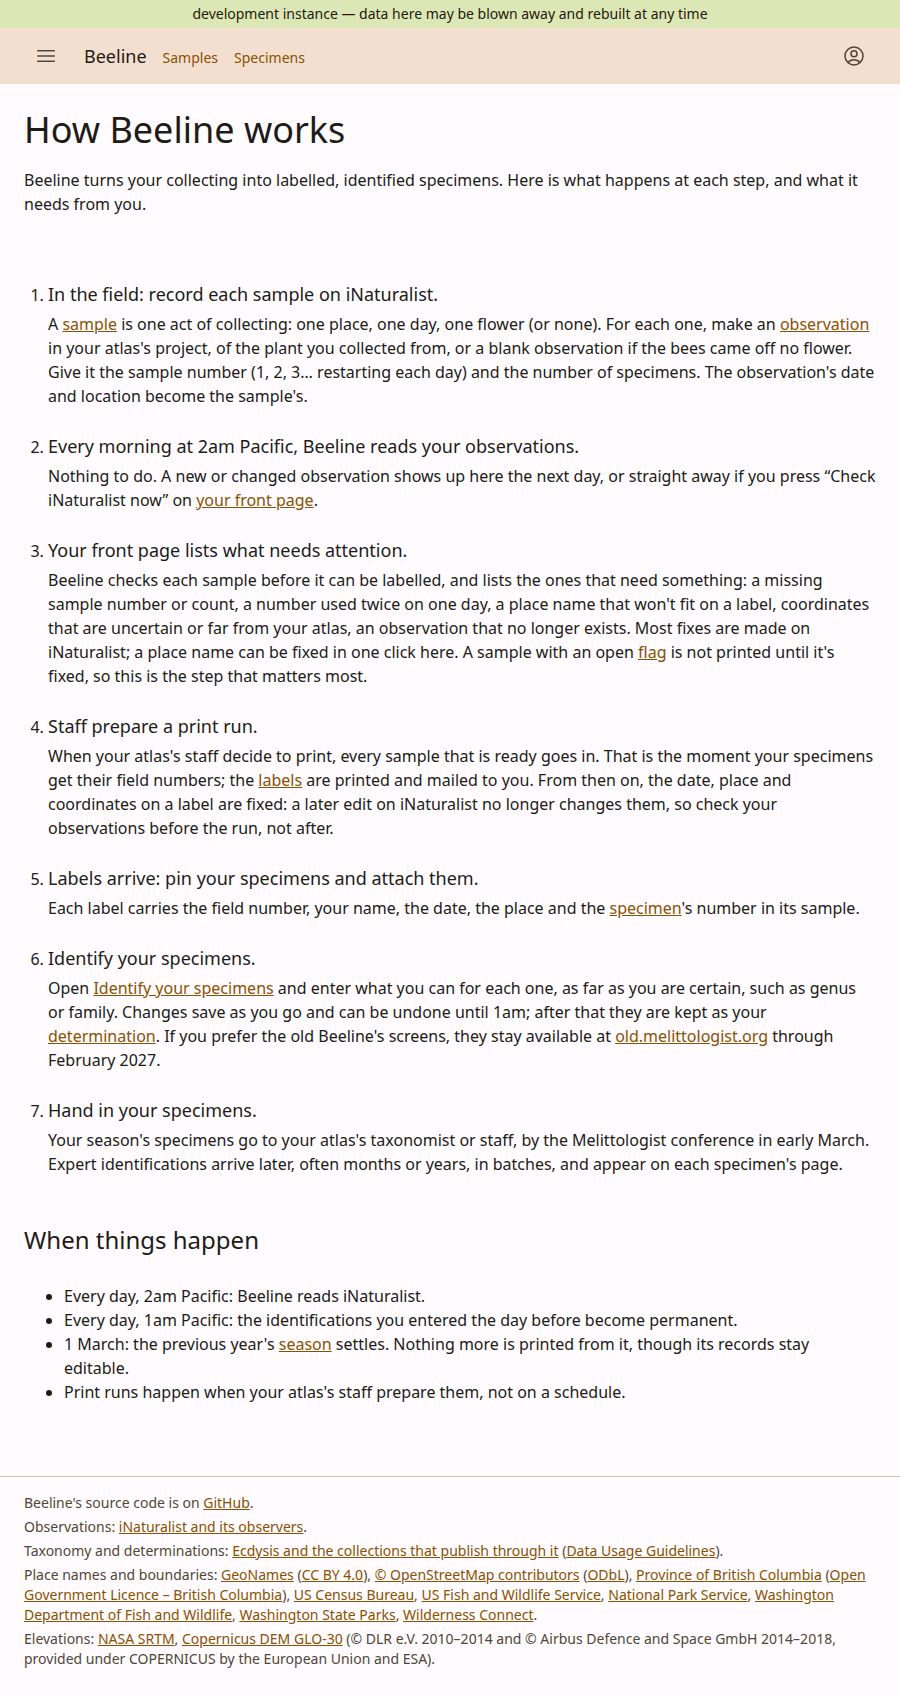
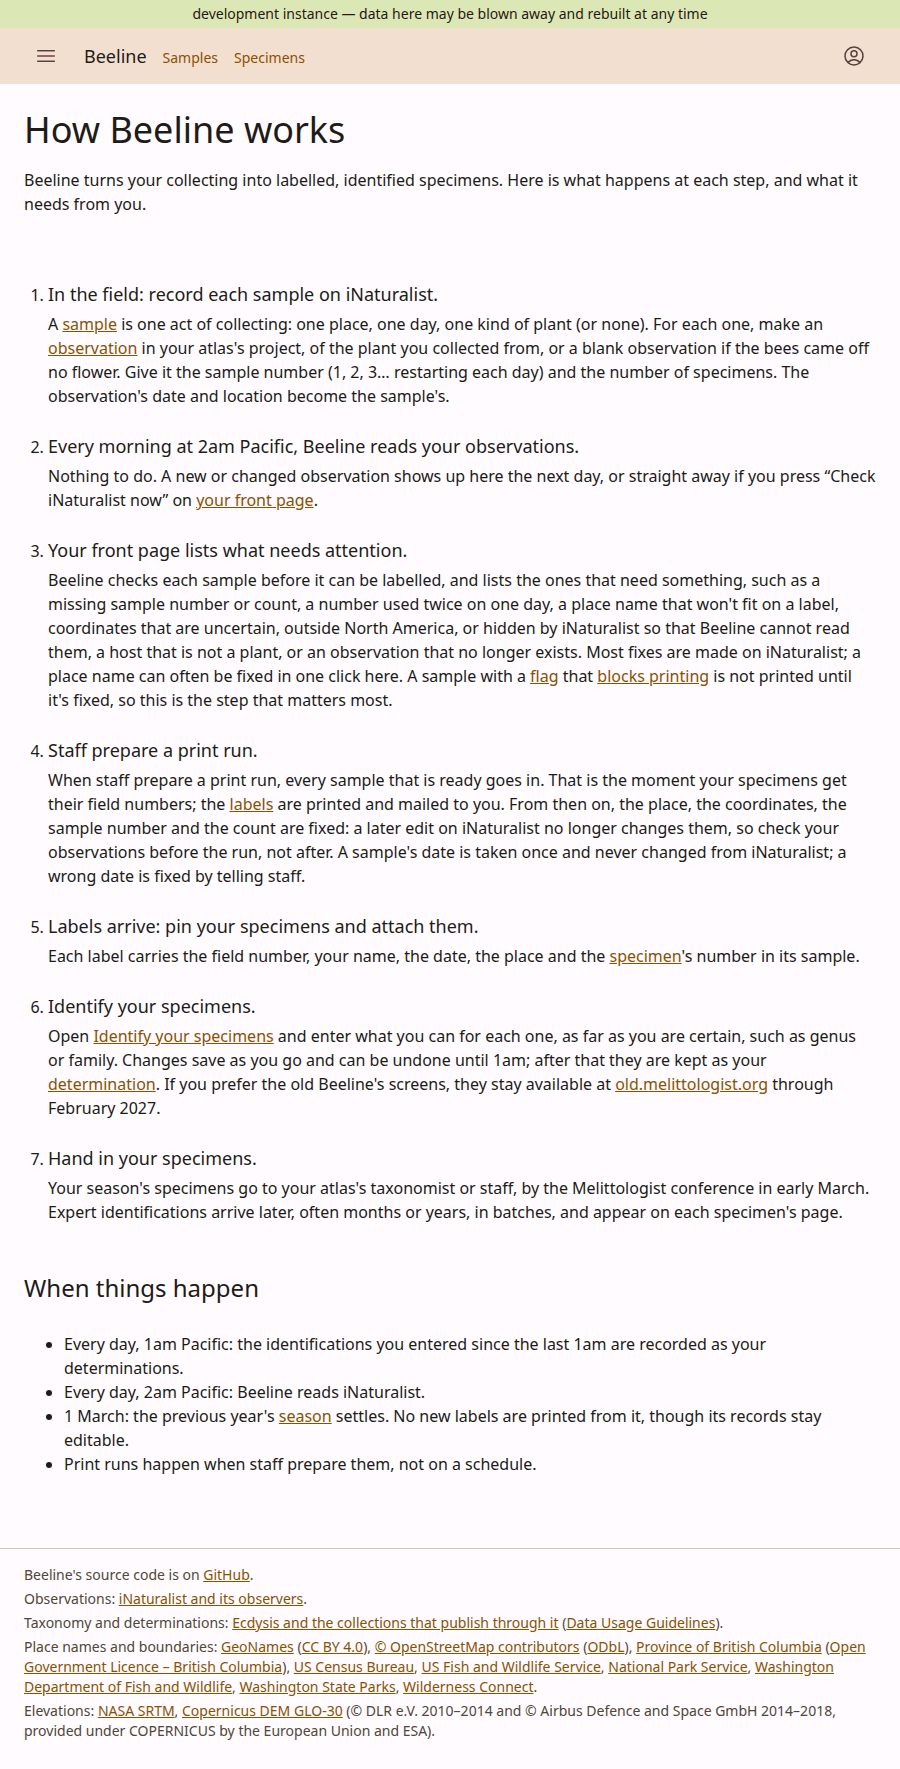
Say only what the system does: the date never follows iNaturalist, staff print, and only a blocking flag holds a label
An internal review of the page found five sentences that claimed more than
the system does. A sample's date is taken once and never changed from
iNaturalist, so it is no longer listed among the things that stop following
at printing; the sample number and count, which do stop, are. Every print run
is the program's, so "your atlas's staff" becomes "staff". Only a flag that
blocks printing holds a label, and the page now links the glossary's entry
for that; the list of flags is given as examples, with the obscured
coordinates and the non-plant host named, and "far from your atlas" replaced
by what the check is, outside North America. The place-name button appears
only when Beeline found a name, so "can often be fixed". The 1am line says
what the identification page says, and comes first. Reprints still print from
a settled season, so "no new labels". The old Beeline's address comes from
the module that owns it, and the test now asserts that, with exact statuses.
The glossary's own comment is back on the glossary.

diff --git a/src/app/messages/en.ts b/src/app/messages/en.ts
@@ -7,6 +7,7 @@
 
 import type { TaxonQualifier } from "../views/components/taxon.js";
 import type { LocalityBasis } from "../../locality-rule.js";
+import { OLD_BEELINE_ORIGIN } from "../old-beeline.js";
 
 /** An outside data source the site footer credits, with the licence or terms it asks credit under, where it names some. */
 export interface CreditedSource {
@@ -2281,15 +2282,6 @@ export const en = {
   } as Record<string, string>,
 
   /**
-   * The glossary (/glossary). Volunteers meet a lot of vocabulary here that
-   * nobody explained to them — some of it ours, some of it nomenclature.
-   * Keys are the anchor slugs, so renaming one breaks a link: a test pins
-   * every `Term` usage against these keys.
-   *
-   * Order is display order. Written to be read by someone who has collected
-   * bees for a season and never used this software.
-   */
-  /**
    * The process, step by step, for a volunteer who has never seen Beeline
    * (beeline-kgwd; Peter, 2026-11-03, cutover day): what happens and when, and
    * what each step needs from them. Every sentence is a fact about how the
@@ -2309,7 +2301,7 @@ export const en = {
         body: [
           "A ",
           { href: "/glossary#sample", label: "sample" },
-          " is one act of collecting: one place, one day, one flower (or none). For each one, make an ",
+          " is one act of collecting: one place, one day, one kind of plant (or none). For each one, make an ",
           { href: "/glossary#observation", label: "observation" },
           " in your atlas's project, of the plant you collected from, or a blank observation if the bees came off no flower. Give it the sample number (1, 2, 3… restarting each day) and the number of specimens. The observation's date and location become the sample's.",
         ],
@@ -2325,17 +2317,19 @@ export const en = {
       {
         heading: "Your front page lists what needs attention.",
         body: [
-          "Beeline checks each sample before it can be labelled, and lists the ones that need something: a missing sample number or count, a number used twice on one day, a place name that won't fit on a label, coordinates that are uncertain or far from your atlas, an observation that no longer exists. Most fixes are made on iNaturalist; a place name can be fixed in one click here. A sample with an open ",
+          "Beeline checks each sample before it can be labelled, and lists the ones that need something, such as a missing sample number or count, a number used twice on one day, a place name that won't fit on a label, coordinates that are uncertain, outside North America, or hidden by iNaturalist so that Beeline cannot read them, a host that is not a plant, or an observation that no longer exists. Most fixes are made on iNaturalist; a place name can often be fixed in one click here. A sample with a ",
           { href: "/glossary#flag", label: "flag" },
+          " that ",
+          { href: "/glossary#blocks-printing", label: "blocks printing" },
           " is not printed until it's fixed, so this is the step that matters most.",
         ],
       },
       {
         heading: "Staff prepare a print run.",
         body: [
-          "When your atlas's staff decide to print, every sample that is ready goes in. That is the moment your specimens get their field numbers; the ",
+          "When staff prepare a print run, every sample that is ready goes in. That is the moment your specimens get their field numbers; the ",
           { href: "/glossary#label", label: "labels" },
-          " are printed and mailed to you. From then on, the date, place and coordinates on a label are fixed: a later edit on iNaturalist no longer changes them, so check your observations before the run, not after.",
+          " are printed and mailed to you. From then on, the place, the coordinates, the sample number and the count are fixed: a later edit on iNaturalist no longer changes them, so check your observations before the run, not after. A sample's date is taken once and never changed from iNaturalist; a wrong date is fixed by telling staff.",
         ],
       },
       {
@@ -2354,7 +2348,7 @@ export const en = {
           " and enter what you can for each one, as far as you are certain, such as genus or family. Changes save as you go and can be undone until 1am; after that they are kept as your ",
           { href: "/glossary#determination", label: "determination" },
           ". If you prefer the old Beeline's screens, they stay available at ",
-          { href: "https://old.melittologist.org", label: "old.melittologist.org" },
+          { href: OLD_BEELINE_ORIGIN, label: "old.melittologist.org" },
           " through February 2027.",
         ],
       },
@@ -2367,17 +2361,26 @@ export const en = {
     ],
     whenHeading: "When things happen",
     when: [
+      ["Every day, 1am Pacific: the identifications you entered since the last 1am are recorded as your determinations."],
       ["Every day, 2am Pacific: Beeline reads iNaturalist."],
-      ["Every day, 1am Pacific: the identifications you entered the day before become permanent."],
       [
         "1 March: the previous year's ",
         { href: "/glossary#season", label: "season" },
-        " settles. Nothing more is printed from it, though its records stay editable.",
+        " settles. No new labels are printed from it, though its records stay editable.",
       ],
-      ["Print runs happen when your atlas's staff prepare them, not on a schedule."],
+      ["Print runs happen when staff prepare them, not on a schedule."],
     ],
   },
 
+  /**
+   * The glossary (/glossary). Volunteers meet a lot of vocabulary here that
+   * nobody explained to them — some of it ours, some of it nomenclature.
+   * Keys are the anchor slugs, so renaming one breaks a link: a test pins
+   * every `Term` usage against these keys.
+   *
+   * Order is display order. Written to be read by someone who has collected
+   * bees for a season and never used this software.
+   */
   glossary: {
     title: "Glossary",
     heading: "Glossary",

diff --git a/test/app.test.ts b/test/app.test.ts
@@ -6,6 +6,7 @@ import { noSession } from "../src/app/session.js";
 import { createMemoryDb, insertCleanSample, scratchPaths } from "./helpers.js";
 import { DESIGN_SECTIONS } from "../src/app/views/design/shell.js";
 import { en } from "../src/app/messages/en.js";
+import { OLD_BEELINE_ORIGIN } from "../src/app/old-beeline.js";
 
 const unusedInat: InatClient = {
   authorizeUrl: () => "https://inat.example/authorize",
@@ -322,9 +323,11 @@ describe("app scaffold", () => {
         expect(Object.keys(en.glossary.entries), href).toContain(href.slice("/glossary#".length));
       } else if (href.startsWith("/")) {
         const linked = await app.request(href);
-        expect(linked.status, href).toBeLessThan(400);
+        expect(linked.status, href).toBe(200);
       }
     }
+    // The one address off the site comes from the module that owns it.
+    expect(hrefs.filter((h) => !h.startsWith("/"))).toEqual([OLD_BEELINE_ORIGIN]);
     const front = await (await app.request("/")).text();
     expect(front).toContain(`href="/how-it-works"`);
     expect(front).toContain(en.qc.howItWorksLink);

diff --git a/docs/architecture/the-front-page.md b/docs/architecture/the-front-page.md
@@ -8,4 +8,4 @@ A staff hold (beeline-plu) is one more flag on the page, `staff_hold`, with no c
 
 A locality flag — `locality_format`, or a required field missing that is the locality — carries on its line the locality Beeline names from the sample's coordinates, with a button that makes it the sample's locality in one click, rather than the volunteer guessing at a name on iNaturalist ([Localities from coordinates](localities-from-coordinates.md), beeline-7i6).
 
-Beside it in the menu, since cutover, is **How Beeline works** (`/how-it-works`, `src/app/views/how-it-works.tsx`, beeline-kgwd): the process in the specimen's order, from the observation on iNaturalist to handing the season's specimens in, with what each step needs from the volunteer and when things happen. The front page's lede links to it. Like the glossary it is catalog copy throughout, and a test checks that every link on it resolves, so it cannot drift from the pages it describes.
+Also in the menu, since cutover, is **How Beeline works** (`/how-it-works`, `src/app/views/how-it-works.tsx`, beeline-kgwd): the process in the specimen's order, from the observation on iNaturalist to handing the season's specimens in, with what each step needs from the volunteer and when things happen. The front page's lede links to it. Like the glossary it is catalog copy throughout, and a test checks that every link on it resolves, so its links cannot go stale; the hours and dates it states are written by hand and change with the schedule in `src/app/jobs/registry.ts`.
